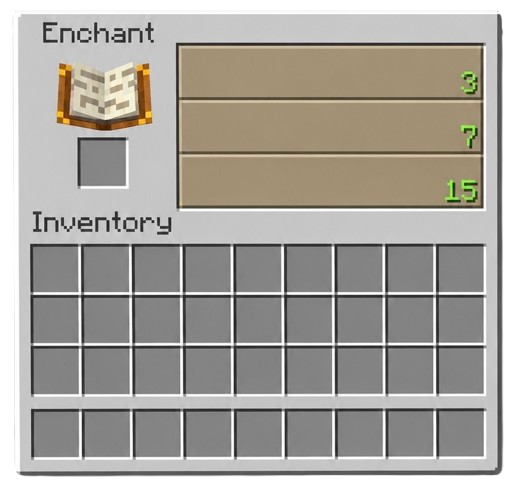
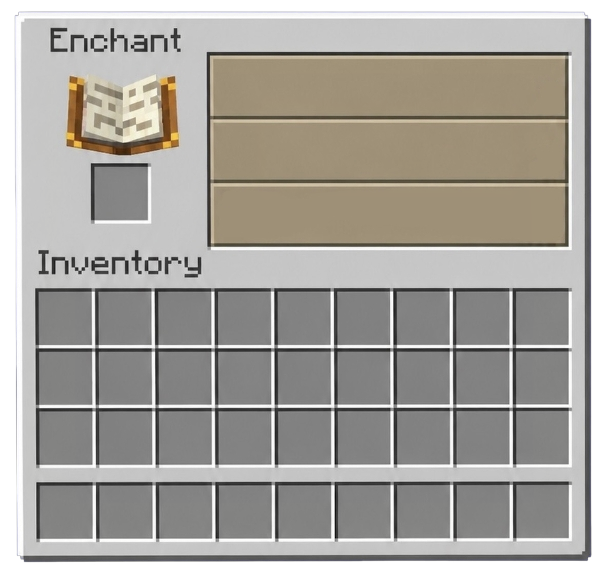
Cambios en el PopUp

diff --git a/app/styles/popup.css b/app/styles/popup.css
@@ -139,6 +139,58 @@
   justify-content: center;
 }
 
+/* =========================================================
+   Panel de encantamientos: los 3 recuadros anchos a la derecha
+   del libro. Igual que el resto del popup, las coordenadas están
+   en píxeles 1:1 con Popup-mesa.png (514×485) — MOVER TODO EL
+   BLOQUE: cambiá `left` / `top` / `width` de .popup-encantamientos.
+   Cada recuadro individual se reparte la altura disponible por
+   igual (`flex: 1`), y separalos con `gap`.
+   ========================================================= */
+
+.popup-encantamientos {
+  position: absolute;
+  left: 180px;
+  top: 50px;
+  width: 330px;
+  height: 158px;
+  display: flex;
+  align-items: flex-start;
+  flex-direction: column;
+  gap: 10px;
+  pointer-events: none; /* son solo texto informativo, no se interactúa */
+}
+
+.popup-encantamiento-recuadro {
+  flex: 1;
+  display: flex;
+  flex-direction: column;
+  align-items: center;
+  justify-content: center;
+  gap: 2px;
+  padding: 2px 12px;
+  overflow: hidden;
+}
+
+.popup-encantamiento-linea {
+  font-family: var(--fuente-mojangles);
+  font-size: clamp(0.68rem, 1.6vw, 0.85rem);
+  line-height: 1.2;
+  color: #ffff9e; /* dorado clásico de los nombres de encantamiento */
+  text-shadow: 1px 1px 0 #3f3f00;
+  text-align: center;
+  white-space: nowrap;
+  overflow: hidden;
+  text-overflow: ellipsis;
+  max-width: 100%;
+}
+
+@media (max-width: 480px) {
+  .popup-encantamiento-linea {
+    font-size: 0.6rem;
+  }
+}
+
 @media (max-width: 480px) {
   .popup-fondo {
     padding: 1rem;

diff --git a/app/components/InventoryPopup.js b/app/components/InventoryPopup.js
@@ -1,8 +1,10 @@
 import InventorySlot from "./InventorySlot";
+import EnchantmentPanel from "./EnchantmentPanel";
 
 /**
  * Popup modal de la mesa de encantamientos: casilla principal (bajo
- * el libro) + grid de 27 casillas + fila de hotbar de 9 casillas.
+ * el libro) + panel de encantamientos a la derecha + grid de 27
+ * casillas + fila de hotbar de 9 casillas.
  */
 export default function InventoryPopup({
   popup,
@@ -12,6 +14,12 @@ export default function InventoryPopup({
   iniciarArrastre,
   onClose,
 }) {
+  // El panel de encantamientos siempre refleja lo que hay AHORA en la
+  // casilla principal, así que se recalcula en cada render del popup
+  // (por ejemplo, al soltar/sacar un ítem de esa casilla).
+  const idPrincipal = idEnOrigen("principal");
+  const itemPrincipal = idPrincipal ? itemsPorId[idPrincipal] : null;
+
   const renderCasilla = (origen, esPrincipal = false) => {
     const id = idEnOrigen(origen);
     const item = id ? itemsPorId[id] : null;
@@ -38,6 +46,7 @@ export default function InventoryPopup({
         aria-modal="true"
       >
         {renderCasilla("principal", true)}
+        <EnchantmentPanel item={itemPrincipal} />
 
         <div className="popup-inventario-principal">
           {Array.from({ length: 27 }, (_, i) => renderCasilla(i))}

diff --git a/app/utils/agruparEncantamientos.js b/app/utils/agruparEncantamientos.js
@@ -1,0 +1,26 @@
+// Reparte una lista de encantamientos en los 3 recuadros de la derecha,
+// de a 2 por recuadro y de arriba hacia abajo.
+//
+// Ejemplos:
+//   6 encantamientos -> [ [e1,e2], [e3,e4], [e5,e6] ]
+//   5 encantamientos -> [ [e1,e2], [e3,e4], [e5]     ]
+//   4 encantamientos -> [ [e1,e2], [e3,e4], []        ]
+//
+// Si en algún momento un ítem tuviera más de 6 encantamientos, los que
+// sobren simplemente no se muestran (no hay más recuadros disponibles).
+
+const ENCANTAMIENTOS_POR_RECUADRO = 2;
+const CANTIDAD_RECUADROS = 3;
+
+export function agruparEncantamientos(encantamientos = []) {
+  const grupos = Array.from({ length: CANTIDAD_RECUADROS }, () => []);
+
+  encantamientos.forEach((encantamiento, indice) => {
+    const indiceRecuadro = Math.floor(indice / ENCANTAMIENTOS_POR_RECUADRO);
+    if (indiceRecuadro < CANTIDAD_RECUADROS) {
+      grupos[indiceRecuadro].push(encantamiento);
+    }
+  });
+
+  return grupos;
+}

diff --git a/app/components/EnchantmentPanel.js b/app/components/EnchantmentPanel.js
@@ -1,0 +1,27 @@
+import { agruparEncantamientos } from "../utils/agruparEncantamientos";
+
+/**
+ * Los 3 recuadros anchos a la derecha del libro, con los encantamientos
+ * del ítem que está en la casilla principal repartidos de a 2 por
+ * recuadro (ver utils/agruparEncantamientos.js). Si no hay ítem en la
+ * casilla principal, no se renderiza nada.
+ */
+export default function EnchantmentPanel({ item }) {
+  if (!item) return null;
+
+  const grupos = agruparEncantamientos(item.encantamientos);
+
+  return (
+    <div className="popup-encantamientos">
+      {grupos.map((grupo, indice) => (
+        <div className="popup-encantamiento-recuadro" key={indice}>
+          {grupo.map((encantamiento) => (
+            <span className="popup-encantamiento-linea" key={encantamiento}>
+              {encantamiento}
+            </span>
+          ))}
+        </div>
+      ))}
+    </div>
+  );
+}

diff --git a/app/layout.js b/app/layout.js
@@ -22,6 +22,13 @@ export default function RootLayout({ children }) {
           href="https://fonts.googleapis.com/css2?family=Open+Sans:wght@300;400;700&display=swap"
           rel="stylesheet"
         />
+        {/* Fallback pixelado para "Mojangles" (ver app/styles/fonts.css):
+            si no agregás el archivo real de Mojangles en /public/fonts,
+            esta es la que termina usándose en los textos de encantamientos. */}
+        <link
+          href="https://fonts.googleapis.com/css2?family=Press+Start+2P&display=swap"
+          rel="stylesheet"
+        />
         {/* Mismos colores de texto en blanco que en el index.html original */}
         <style>{`
           img { color: #FFFFFF; }

diff --git a/app/styles/fonts.css b/app/styles/fonts.css
@@ -1,0 +1,15 @@
+/* =========================================================
+   TIPOGRAFÍA "MOJANGLES"
+   ========================================================= */
+
+@font-face {
+  font-family: "Mojangles";
+  src:
+    url("/fonts/Mojangles.woff2") format("woff2"),
+    url("/fonts/Mojangles.ttf") format("truetype");
+  font-display: swap;
+}
+
+:root {
+  --fuente-mojangles: "Mojangles", "Press Start 2P", "Courier New", monospace;
+}

diff --git a/app/globals.css b/app/globals.css
@@ -5,6 +5,7 @@
    propio archivo dentro de ./styles/
    ========================================================= */
 
+@import "./styles/fonts.css";
 @import "./styles/base.css";
 @import "./styles/hero.css";
 @import "./styles/hud.css";
